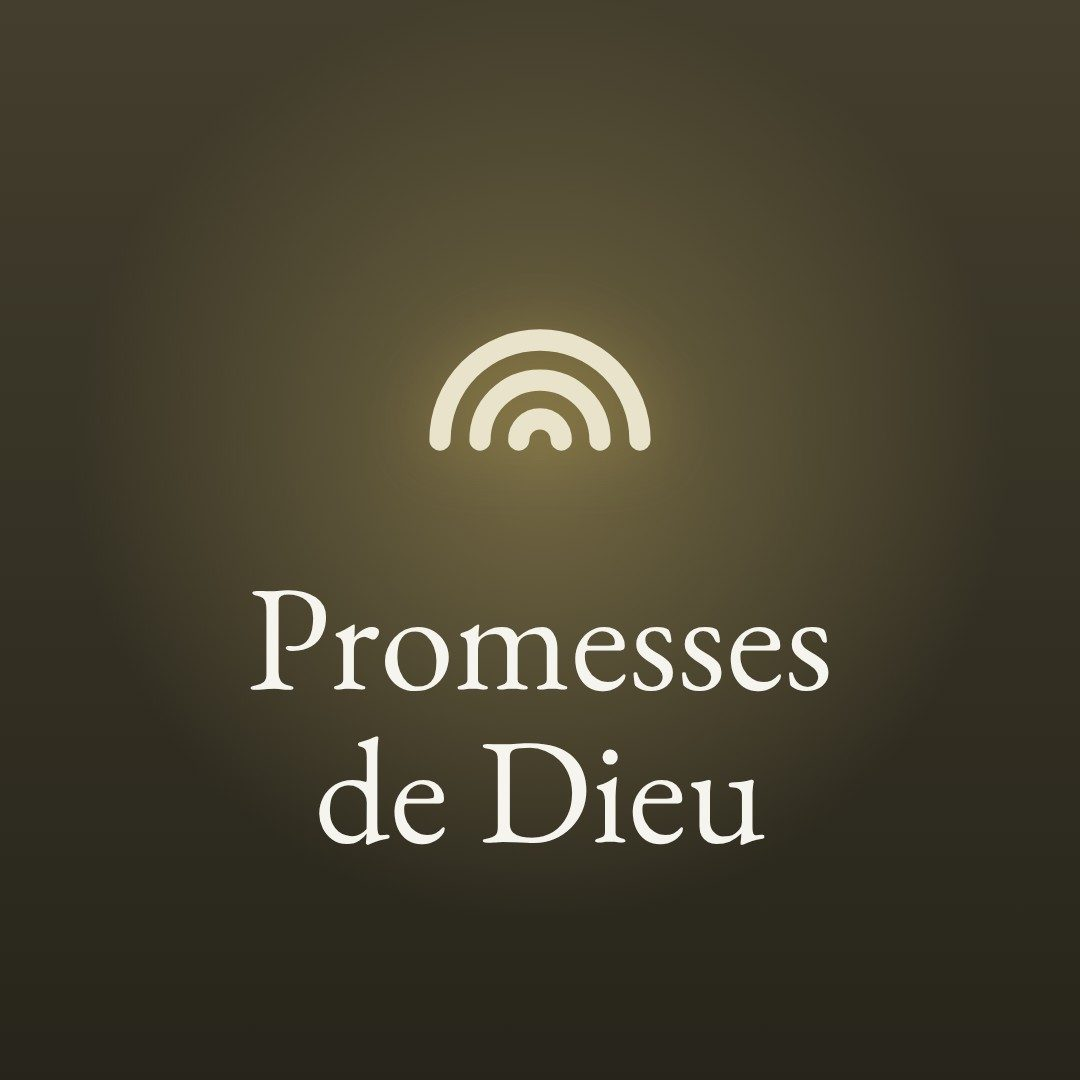
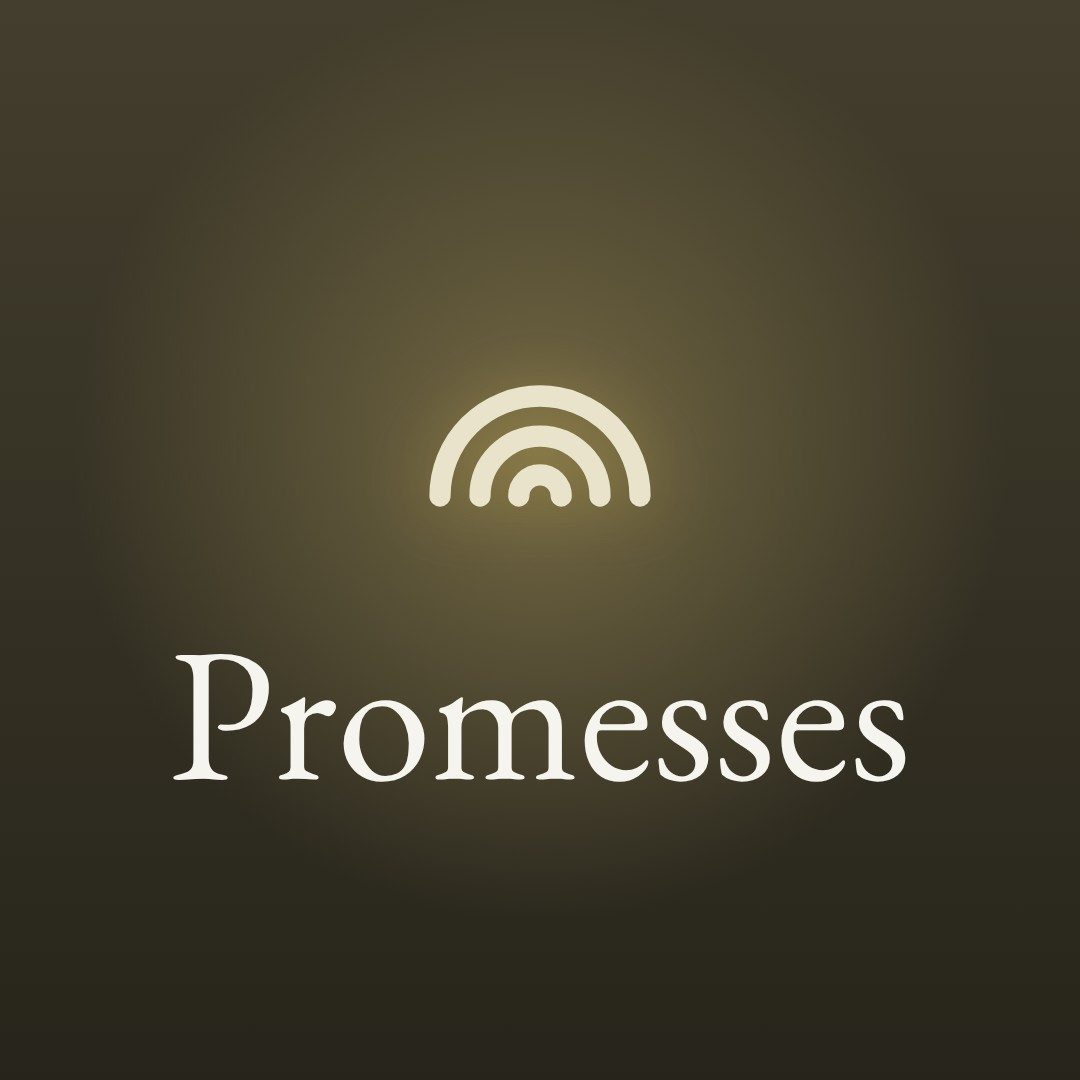
Titres des themes sans « de Dieu » : meditations, Shorts Promesses, playlists, couvertures (decision de BC)
Claude-Session: https://claude.ai/code/session_016HiBy1pZA8dkCm1bzQjfLZ

Changed region(s): [[0.1528, 0.5194, 0.8556, 0.7944], [0.3972, 0.3056, 0.6111, 0.4889]]

diff --git a/thematic_meditation.py b/thematic_meditation.py
@@ -86,28 +86,28 @@ SECS_OUTRO = 3           # total = 3 + 5*9 + 3 = 51s  (< 60s -> regra de Short m
 # 
 THEMES = {
     "protection": dict(
-        file="protection_curated.json", title="La protection de Dieu",
-        lines=["La protection", "de Dieu"], emoji="\U0001f6e1\ufe0f", tag="Protection",
+        file="protection_curated.json", title="La protection",
+        lines=["La protection", ""], emoji="\U0001f6e1\ufe0f", tag="Protection",
         palette=((30, 12, 16), (16, 6, 9), (196, 112, 124), (216, 140, 150), (245, 238, 235), (150, 110, 118))),
     "paix": dict(
-        file="paix_curated.json", title="La paix de Dieu",
-        lines=["La paix", "de Dieu"], emoji="\U0001f54a\ufe0f", tag="Paix",
+        file="paix_curated.json", title="La paix",
+        lines=["La paix", ""], emoji="\U0001f54a\ufe0f", tag="Paix",
         palette=((8, 30, 28), (4, 16, 15), (116, 190, 178), (150, 215, 205), (235, 250, 248), (110, 160, 155))),
     "amour": dict(
-        file="amour_curated.json", title="L'amour de Dieu",
-        lines=["L'amour", "de Dieu"], emoji="\u2764\ufe0f", tag="Amour",
+        file="amour_curated.json", title="L'amour",
+        lines=["L'amour", ""], emoji="\u2764\ufe0f", tag="Amour",
         palette=((32, 12, 18), (18, 6, 10), (218, 140, 156), (235, 165, 180), (250, 238, 240), (160, 115, 128))),
     "esperance": dict(
-        file="esperance_curated.json", title="L'esp\u00e9rance en Dieu",
-        lines=["L'esp\u00e9rance", "en Dieu"], emoji="\U0001f305", tag="Esp\u00e9rance",
+        file="esperance_curated.json", title="L'esp\u00e9rance",
+        lines=["L'esp\u00e9rance", ""], emoji="\U0001f305", tag="Esp\u00e9rance",
         palette=((10, 28, 18), (5, 16, 10), (150, 200, 150), (180, 220, 175), (240, 248, 238), (120, 160, 125))),
     "priere": dict(
         file="priere_curated.json", title="La pri\u00e8re",
         lines=["La pri\u00e8re", ""], emoji="\U0001f64f", tag="Pri\u00e8re",
         palette=((24, 12, 40), (12, 6, 24), (178, 146, 210), (200, 175, 228), (245, 240, 250), (145, 125, 170))),
     "promesses": dict(
-        file="promesses_curated.json", title="Les promesses de Dieu",
-        lines=["Les promesses", "de Dieu"], emoji="\U0001f33f", tag="Promesses",
+        file="promesses_curated.json", title="Les promesses",
+        lines=["Les promesses", ""], emoji="\U0001f33f", tag="Promesses",
         palette=((8, 26, 18), (4, 14, 10), (120, 184, 142), (150, 205, 165), (238, 248, 240), (110, 150, 125))),
     "sagesse": dict(
         file="proverbes_curated.json", title="La sagesse de la Parole",
@@ -126,24 +126,24 @@ THEMES = {
         lines=["Les proph\u00e9ties", "de la Parole"], emoji="\U0001f4ef", tag="Proph\u00e9ties",
         palette=((20, 8, 34), (10, 4, 20), (170, 130, 200), (195, 160, 222), (244, 238, 250), (140, 115, 165))),
     "guerison": dict(
-        file="guerison_curated.json", title="La gu\u00e9rison de Dieu",
-        lines=["La gu\u00e9rison", "de Dieu"], emoji="\U0001f49a", tag="Gu\u00e9rison",
+        file="guerison_curated.json", title="La gu\u00e9rison",
+        lines=["La gu\u00e9rison", ""], emoji="\U0001f49a", tag="Gu\u00e9rison",
         palette=((6, 26, 30), (3, 14, 17), (120, 195, 200), (155, 222, 225), (236, 249, 250), (110, 158, 162))),
     "peur": dict(
         file="peur_curated.json", title="Face \u00e0 la peur et l'angoisse",
         lines=["Face \u00e0 la peur", "et l'angoisse"], emoji="\U0001f499", tag="Encouragement",
         palette=((14, 20, 30), (7, 11, 17), (140, 175, 200), (170, 205, 225), (236, 242, 248), (115, 145, 170))),
     "pardon": dict(
-        file="pardon_curated.json", title="Le pardon de Dieu",
-        lines=["Le pardon", "de Dieu"], emoji="\U0001f90d", tag="Pardon",
+        file="pardon_curated.json", title="Le pardon",
+        lines=["Le pardon", ""], emoji="\U0001f90d", tag="Pardon",
         palette=((26, 20, 30), (14, 10, 17), (200, 170, 200), (225, 200, 225), (248, 242, 248), (155, 130, 155))),
     "deuil": dict(
         file="deuil_curated.json", title="Le r\u00e9confort dans le deuil",
         lines=["Le r\u00e9confort", "dans le deuil"], emoji="\U0001f56f\ufe0f", tag="R\u00e9confort",
         palette=((18, 18, 28), (9, 9, 15), (150, 160, 195), (180, 190, 215), (238, 240, 248), (118, 128, 160))),
     "confiance": dict(
-        file="confiance_curated.json", title="La confiance en Dieu",
-        lines=["La confiance", "en Dieu"], emoji="\u2693", tag="Confiance",
+        file="confiance_curated.json", title="La confiance",
+        lines=["La confiance", ""], emoji="\u2693", tag="Confiance",
         palette=((12, 16, 32), (6, 9, 18), (140, 160, 210), (170, 190, 228), (236, 240, 250), (115, 135, 180))),
     "force": dict(
         file="force_curated.json", title="La force et le courage",
@@ -158,12 +158,12 @@ THEMES = {
         lines=["Le combat", "spirituel"], emoji="\u2694\ufe0f", tag="CombatSpirituel",
         palette=((28, 10, 12), (15, 5, 6), (200, 90, 90), (225, 120, 120), (245, 232, 232), (160, 95, 98))),
     "solitude": dict(
-        file="solitude_curated.json", title="La pr\u00e9sence de Dieu",
-        lines=["La pr\u00e9sence", "de Dieu"], emoji="\U0001f463", tag="Pr\u00e9sence",
+        file="solitude_curated.json", title="La pr\u00e9sence",
+        lines=["La pr\u00e9sence", ""], emoji="\U0001f463", tag="Pr\u00e9sence",
         palette=((26, 22, 16), (14, 12, 8), (200, 180, 150), (222, 205, 178), (246, 242, 234), (160, 148, 125))),
     "famille": dict(
-        file="famille_curated.json", title="La famille selon Dieu",
-        lines=["La famille", "selon Dieu"], emoji="\U0001f3e1", tag="Famille",
+        file="famille_curated.json", title="La famille",
+        lines=["La famille", ""], emoji="\U0001f3e1", tag="Famille",
         palette=((28, 20, 12), (16, 11, 6), (210, 165, 120), (230, 190, 150), (246, 240, 230), (165, 135, 108))),
 }
 

diff --git a/yt_playlists.py b/yt_playlists.py
@@ -21,7 +21,7 @@ rangement dans bible_audio.py et psaume_meditation.py.
 # absente de la chaine n'est pas creee : elle est signalee et ignoree.
 PLAYLISTS = {
     # Shorts « verset du jour » : bot.py
-    "promise":        "\U0001f33f Promesses de Dieu",
+    "promise":        "\U0001f33f Les Promesses",
     "jesus":          "✝ Paroles de Jésus",
     "proverbe":       "\U0001f4a1 Sagesse Biblique",
     "prophetie":      "\U0001f4ef  Prophéties Bibliques",
@@ -41,25 +41,25 @@ PLAYLISTS = {
 # Les themes sans playlist sont a None : ils sont ignores sans bruit.
 PLAYLISTS_THEMATIQUES = {
     "protection": "\U0001f6e1 Protection Divine",
-    "promesses":  "\U0001f33f Promesses de Dieu",
+    "promesses":  "\U0001f33f Les Promesses",
     "sagesse":    "\U0001f4a1 Sagesse Biblique",
     "jesus":      "✝ Paroles de Jésus",
     "propheties": "\U0001f4ef  Prophéties Bibliques",
     "psaumes":    "\U0001f3b5 Les Psaumes — Lectures Bibliques | Bible LSG1910",
     "priere":     "\U0001f64f La Prière",
-    "pardon":     "\U0001f90d Le Pardon de Dieu",
-    "guerison":   "\U0001f49a La Guérison de Dieu",
+    "pardon":     "\U0001f90d Le Pardon",
+    "guerison":   "\U0001f49a La Guérison",
     "deuil":      "\U0001f56f Le Réconfort dans le Deuil",
     "peur":       "\U0001f499 Face à la Peur et l'Angoisse",
-    "paix":       "\U0001f54a La Paix de Dieu",
-    "amour":      "❤ L'Amour de Dieu",
-    "esperance":  "\U0001f305 L'Espérance en Dieu",
-    "confiance":  "⚓ La Confiance en Dieu",
+    "paix":       "\U0001f54a La Paix",
+    "amour":      "❤ L'Amour",
+    "esperance":  "\U0001f305 L'Espérance",
+    "confiance":  "⚓ La Confiance",
     "force":      "\U0001f981 La Force et le Courage",
     "gratitude":  "\U0001f64c La Gratitude",
     "combat":     "⚔ Le Combat Spirituel",
-    "solitude":   "\U0001f463 La Présence de Dieu",
-    "famille":    "\U0001f3e1 La Famille selon Dieu",
+    "solitude":   "\U0001f463 La Présence",
+    "famille":    "\U0001f3e1 La Famille",
 }
 
 # Playlists de theme creees par creer_manquantes() si elles n'existent pas :

diff --git a/scripts/playlists_themes.py b/scripts/playlists_themes.py
@@ -31,6 +31,8 @@ from youtube_garde import verifier_chaine  # noqa: E402
 MODE = os.environ.get("MODE", "installer")
 MAX = int(os.environ.get("MAX") or 60)
 COUVERTURE = "v2"   # monter pour reposer toutes les couvertures
+# Couvertures refaites pour un seul theme (9 nov. 2026 : nom sans « de Dieu »).
+COUVERTURES = {"protection": "v3", "amour": "v3", "promesses": "v3", "confiance": "v3", "solitude": "v3"}
 # Couverture carree obligatoire : un essai en 16:9 (8 nov. 2026) a ete refuse par l'API.
 
 
@@ -86,6 +88,17 @@ def poser_couverture(yt, pid, chemin):
 
 def installer(yt, etat):
     pls = mes_playlists(yt)
+    par_id = {it["id"]: it for it in pls.values()}
+    # Titres a renommer d'abord (9 nov. 2026 : « de Dieu » retire des titres) :
+    # yt_playlists.py retrouve les playlists par leur titre.
+    for slug in yth.themes():
+        pid = (etat.get(slug) or {}).get("id")
+        it = par_id.get(pid)
+        titre = yth.titre_playlist(slug)
+        if it and " ".join(it["snippet"]["title"].split()) != " ".join(titre.split()):
+            ecrire(yt.playlists().update(part="snippet", body={"id": pid, "snippet": {
+                "title": titre, "description": it["snippet"].get("description", ""), "defaultLanguage": "fr"}}))
+            print(f"✏  Renommée : {it['snippet']['title']} → {titre}")
     for slug in yth.themes():
         e = etat.setdefault(slug, {})
         titre = yth.titre_playlist(slug)
@@ -110,11 +123,11 @@ def installer(yt, etat):
             e["seo"] = 1
             sauver(etat)
             print(f"✏  Description : {titre}")
-        if e.get("couverture") != COUVERTURE:
+        if e.get("couverture") != COUVERTURES.get(slug, COUVERTURE):
             chemin = os.path.join(RACINE, "assets", "playlists", f"{slug}.jpg")
             if os.path.exists(chemin):
                 poser_couverture(yt, e["id"], chemin)
-                e["couverture"] = COUVERTURE
+                e["couverture"] = COUVERTURES.get(slug, COUVERTURE)
                 sauver(etat)
                 print(f"🖼  Couverture : {titre}")
 

diff --git a/yt_themes.py b/yt_themes.py
@@ -26,21 +26,21 @@ ETAT = os.path.join(os.path.dirname(os.path.abspath(__file__)), "playlists_theme
 # Themes qui avaient deja une playlist avant le 8 novembre 2026 : on la garde.
 EXISTANTES = {
     "protection": "\U0001f6e1 Protection Divine",
-    "paix": "\U0001f54a La Paix de Dieu",
-    "amour": "❤ L'Amour de Dieu",
-    "esperance": "\U0001f305 L'Espérance en Dieu",
+    "paix": "\U0001f54a La Paix",
+    "amour": "❤ L'Amour",
+    "esperance": "\U0001f305 L'Espérance",
     "priere": "\U0001f64f La Prière",
-    "promesses": "\U0001f33f Promesses de Dieu",
+    "promesses": "\U0001f33f Les Promesses",
     "deuil": "\U0001f56f Le Réconfort dans le Deuil",
-    "pardon": "\U0001f90d Le Pardon de Dieu",
-    "guerison": "\U0001f49a La Guérison de Dieu",
+    "pardon": "\U0001f90d Le Pardon",
+    "guerison": "\U0001f49a La Guérison",
     "peur": "\U0001f499 Face à la Peur et l'Angoisse",
-    "confiance": "⚓ La Confiance en Dieu",
+    "confiance": "⚓ La Confiance",
     "force": "\U0001f981 La Force et le Courage",
-    "famille": "\U0001f3e1 La Famille selon Dieu",
+    "famille": "\U0001f3e1 La Famille",
     "gratitude": "\U0001f64c La Gratitude",
     "combat": "⚔ Le Combat Spirituel",
-    "solitude": "\U0001f463 La Présence de Dieu",
+    "solitude": "\U0001f463 La Présence",
     "sagesse": "\U0001f4a1 Sagesse Biblique",
     "paroles-de-jesus": "✝ Paroles de Jésus",
     "propheties": "\U0001f4ef Prophéties Bibliques",

diff --git a/bot.py b/bot.py
@@ -1604,7 +1604,7 @@ def category_label(cat_name, hour_utc=None):
     if cat_name == "psaume":
         return "Psaume du Matin" if hour_utc == 5 else "Psaume du Soir"
     return {
-        "promise":    "Promesses de Dieu",
+        "promise":    "Promesses",
         "jesus":      "Paroles de Jésus",
         "proverbe":   "Sagesse Biblique",
         "prophetie":  "Prophéties Bibliques",

diff --git a/scripts/rattrapage_playlists.py b/scripts/rattrapage_playlists.py
@@ -41,6 +41,7 @@ PSAUMES_LECTURE = TH["psaumes"]
 # Libelle du titre (bot.category_label) -> playlist
 LIBELLES = {
     "Promesses de Dieu": PL["promise"],
+    "Promesses": PL["promise"],
     "Paroles de Jésus": PL["jesus"],
     "Sagesse Biblique": PL["proverbe"],
     "Prophéties Bibliques": PL["prophetie"],
